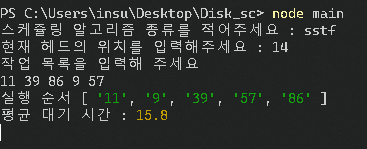
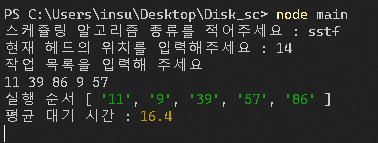
계산오류 수정

diff --git a/main.js b/main.js
@@ -32,11 +32,13 @@ function FCFS() {
 
         let first_head = HEAD
         let queue = [];
+        let input_;
         let queue_avg = [];
         let tmp = 0;
         console.log("작업 목록을 입력해 주세요 (순서대로)");
         r.question(``, data => {
             queue = data.split(' ');
+            input_ = queue.length;
             queue.forEach((value, index) => {
                 if (isNaN(value)) return console.log("입력값 중 숫자가 아닌것이 있습니다");
             });
@@ -63,6 +65,7 @@ function SSTF() {
     r.question("현재 헤드의 위치를 입력해주세요 : ", HEAD => {
         if (isNaN(HEAD)) return console.log("숫자가 아닙니다.");
 
+        let input_;
         let queue = [];
         let queue_run = [];
         let queue_avg = [];
@@ -72,7 +75,7 @@ function SSTF() {
         r.question('', data => {
 
             queue = data.split(' ');
-            header = queue[0];
+            input_ = queue.length;
             
             queue.forEach((value, index) => {
                 if (isNaN(value)) return console.log("입력값 중 숫자가 아닌것이 있습니다.");
@@ -111,6 +114,7 @@ function SCAN() {
 
         let move_dir = (last_head > second_head) ? true : false;
         let queue = [];
+        let input_;
         let queue_avg = [];
         let queue_run = [];
         r.question("디스크 트랙 범위를 입력해 주세요 (최소, 최대) : ", Track_range => {
@@ -120,6 +124,7 @@ function SCAN() {
             console.log("작업 목록을 입력해 주세요");
             r.question("", data => {
                 queue = data.split(' ');
+                input_ = queue.length;
                 queue.sort((a, b) => a-b);
                
     
@@ -150,6 +155,7 @@ function SCAN() {
 
                 let tmp = 0;
                 let header = last_head;
+                queue_run.pop();
                 queue_run.forEach((value, index) => {
                     if (index == queue_run.length);
                     
@@ -160,71 +166,7 @@ function SCAN() {
                 });
 
                 console.log("실행 순서 : ", queue_run);
-                console.log("평균 대기 시간 : ", tmp/queue_run.length);
-
-            })
-        })
-    }) // 11 39 86 9 57
-}
-
-function C_SCAN() {
-    r.question("헤드가 움직인 순서를 입력해 주세요 (2개) : ", Head_moved => {
-        Head_moved = Head_moved.split(' ');
-        let last_head = Head_moved[Head_moved.length-1];
-        let second_head = Head_moved[Head_moved.length-2];
-
-        let move_dir = (last_head > second_head) ? true : false;
-        let queue = [];
-        let queue_avg = [];
-        let queue_run = [];
-        r.question("디스크 트랙 범위를 입력해 주세요 (최소, 최대) : ", Track_range => {
-            let min = Track_range.split(' ')[0];
-            let max = Track_range.split(' ')[1];
-
-            console.log("작업 목록을 입력해 주세요");
-            r.question("", data => {
-                queue = data.split(' ');
-                queue.sort((a, b) => a-b);
-               
-    
-                queue.forEach(val => {if(isNaN(val)) return console.log("입력값 중 숫자가 아닌것이 있습니다.")});
-    
-                let first_head = Closer(last_head, queue, max);
-
-                for (let i = 0; i < 2; i++) {
-
-                    if (move_dir) { // 증가, 오른쪽
-                    
-                        let tmp = queue.slice(queue.indexOf(first_head) + (first_head > last_head) ? 2 : 0);
-                        // tmp.push(max); // 트랙 끝 추가
-                        queue_run = queue_run.concat(tmp);
-                        move_dir = !move_dir;
-    
-                    } else { // 감소, 왼쪽
-                        
-                        let tmp = queue.slice(0, queue.indexOf(first_head) + ((first_head < last_head) ? 1 : 0));
-                        // tmp.unshift(min); // 트랙 앞 추가
-                        tmp.sort((a,b) => b-a);
-                        queue_run = queue_run.concat(tmp);
-                        move_dir = !move_dir;
-    
-                    }
-
-                }
-
-                let tmp = 0;
-                let header = last_head;
-                queue_run.forEach((value, index) => {
-                    if (index == queue_run.length);
-                    
-        
-                    queue_avg.push(Math.abs(Diff(header, value)));
-                    tmp += Math.abs(Diff(header, value));
-                    header = value;
-                });
-
-                console.log("실행 순서 : ", queue_run);
-                console.log("평균 대기 시간 : ", tmp/queue_run.length);
+                console.log("평균 대기 시간 : ", tmp/input_);
 
             })
         })
@@ -239,6 +181,75 @@ function LOOK() {
 
         let move_dir = (last_head > second_head) ? true : false;
         let queue = [];
+        let input_;
+        let queue_avg = [];
+        let queue_run = [];
+        r.question("디스크 트랙 범위를 입력해 주세요 (최소, 최대) : ", Track_range => {
+            let min = Track_range.split(' ')[0];
+            let max = Track_range.split(' ')[1];
+
+            console.log("작업 목록을 입력해 주세요");
+            r.question("", data => {
+                queue = data.split(' ');
+                input_ = queue.length;
+                queue.sort((a, b) => a-b);
+               
+    
+                queue.forEach(val => {if(isNaN(val)) return console.log("입력값 중 숫자가 아닌것이 있습니다.")});
+    
+                let first_head = Closer(last_head, queue, max);
+
+                for (let i = 0; i < 2; i++) {
+
+                    if (move_dir) { // 증가, 오른쪽
+                    
+                        let tmp = queue.slice(queue.indexOf(first_head) + (first_head > last_head) ? 2 : 0);
+                        // tmp.push(max); // 트랙 끝 추가
+                        queue_run = queue_run.concat(tmp);
+                        move_dir = !move_dir;
+    
+                    } else { // 감소, 왼쪽
+                        
+                        let tmp = queue.slice(0, queue.indexOf(first_head) + ((first_head < last_head) ? 1 : 0));
+                        // tmp.unshift(min); // 트랙 앞 추가
+                        tmp.sort((a,b) => b-a);
+                        queue_run = queue_run.concat(tmp);
+                        move_dir = !move_dir;
+    
+                    }
+
+                }
+
+                let tmp = 0;
+                let header = last_head;
+                queue_run.forEach((value, index) => {
+                    if (index == queue_run.length);
+                    
+        
+                    queue_avg.push(Math.abs(Diff(header, value)));
+                    tmp += Math.abs(Diff(header, value));
+                    header = value;
+                });
+
+                console.log("실행 순서 : ", queue_run);
+                console.log("tmp", tmp);
+                console.log(queue_avg);
+                console.log("평균 대기 시간 : ", tmp/input_);
+
+            })
+        })
+    }) // 11 39 86 9 57
+}
+
+function C_SCAN() {
+    r.question("헤드가 움직인 순서를 입력해 주세요 (2개) : ", Head_moved => {
+        Head_moved = Head_moved.split(' ');
+        let last_head = Head_moved[Head_moved.length-1];
+        let second_head = Head_moved[Head_moved.length-2];
+
+        let move_dir = (last_head > second_head) ? true : false;
+        let queue = [];
+        let input_;
         let queue_avg = [];
         let queue_run = [];
         r.question("디스크 트랙 범위를 입력해 주세요 (최소, 최대) : ", Track_range => {
@@ -249,6 +260,7 @@ function LOOK() {
             r.question("", data => {
                 queue = data.split(' ');
                 queue.sort((a, b) => a-b);
+                input_ = queue.length;
                
     
                 queue.forEach(val => {if(isNaN(val)) return console.log("입력값 중 숫자가 아닌것이 있습니다.")});
@@ -288,7 +300,7 @@ function LOOK() {
                 });
 
                 console.log("실행 순서 : ", queue_run);
-                console.log("평균 대기 시간 : ", tmp/queue_run.length);
+                console.log("평균 대기 시간 : ", tmp/input_);
 
             })
         })
@@ -303,6 +315,7 @@ function C_LOOK() {
 
         let move_dir = (last_head > second_head) ? true : false;
         let queue = [];
+        let input_;
         let queue_avg = [];
         let queue_run = [];
         r.question("디스크 트랙 범위를 입력해 주세요 (최소, 최대) : ", Track_range => {
@@ -313,6 +326,7 @@ function C_LOOK() {
             r.question("", data => {
                 queue = data.split(' ');
                 queue.sort((a, b) => a-b);
+                input_ = queue.length;
                
     
                 queue.forEach(val => {if(isNaN(val)) return console.log("입력값 중 숫자가 아닌것이 있습니다.")});
@@ -352,7 +366,7 @@ function C_LOOK() {
                 });
 
                 console.log("실행 순서 : ", queue_run);
-                console.log("평균 대기 시간 : ", tmp/queue_run.length);
+                console.log("평균 대기 시간 : ", tmp/input_);
 
             })
         })
